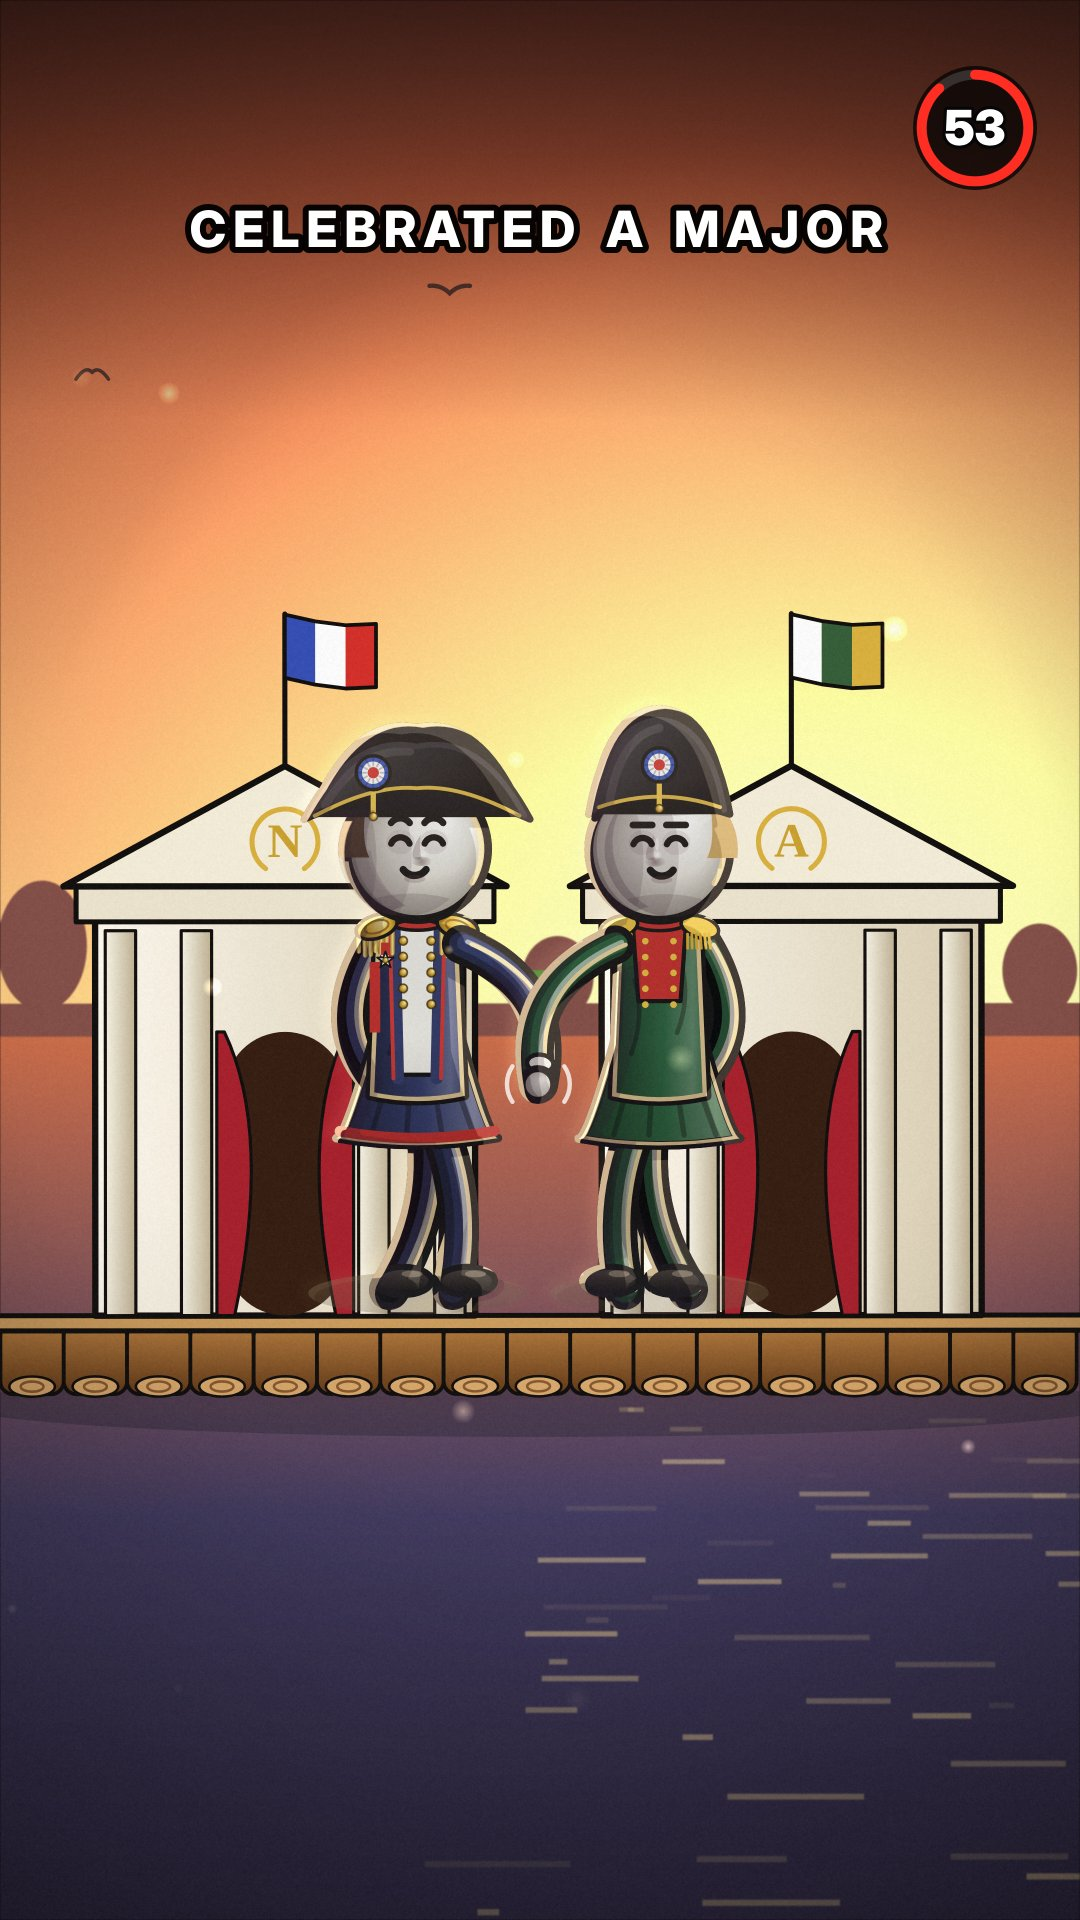
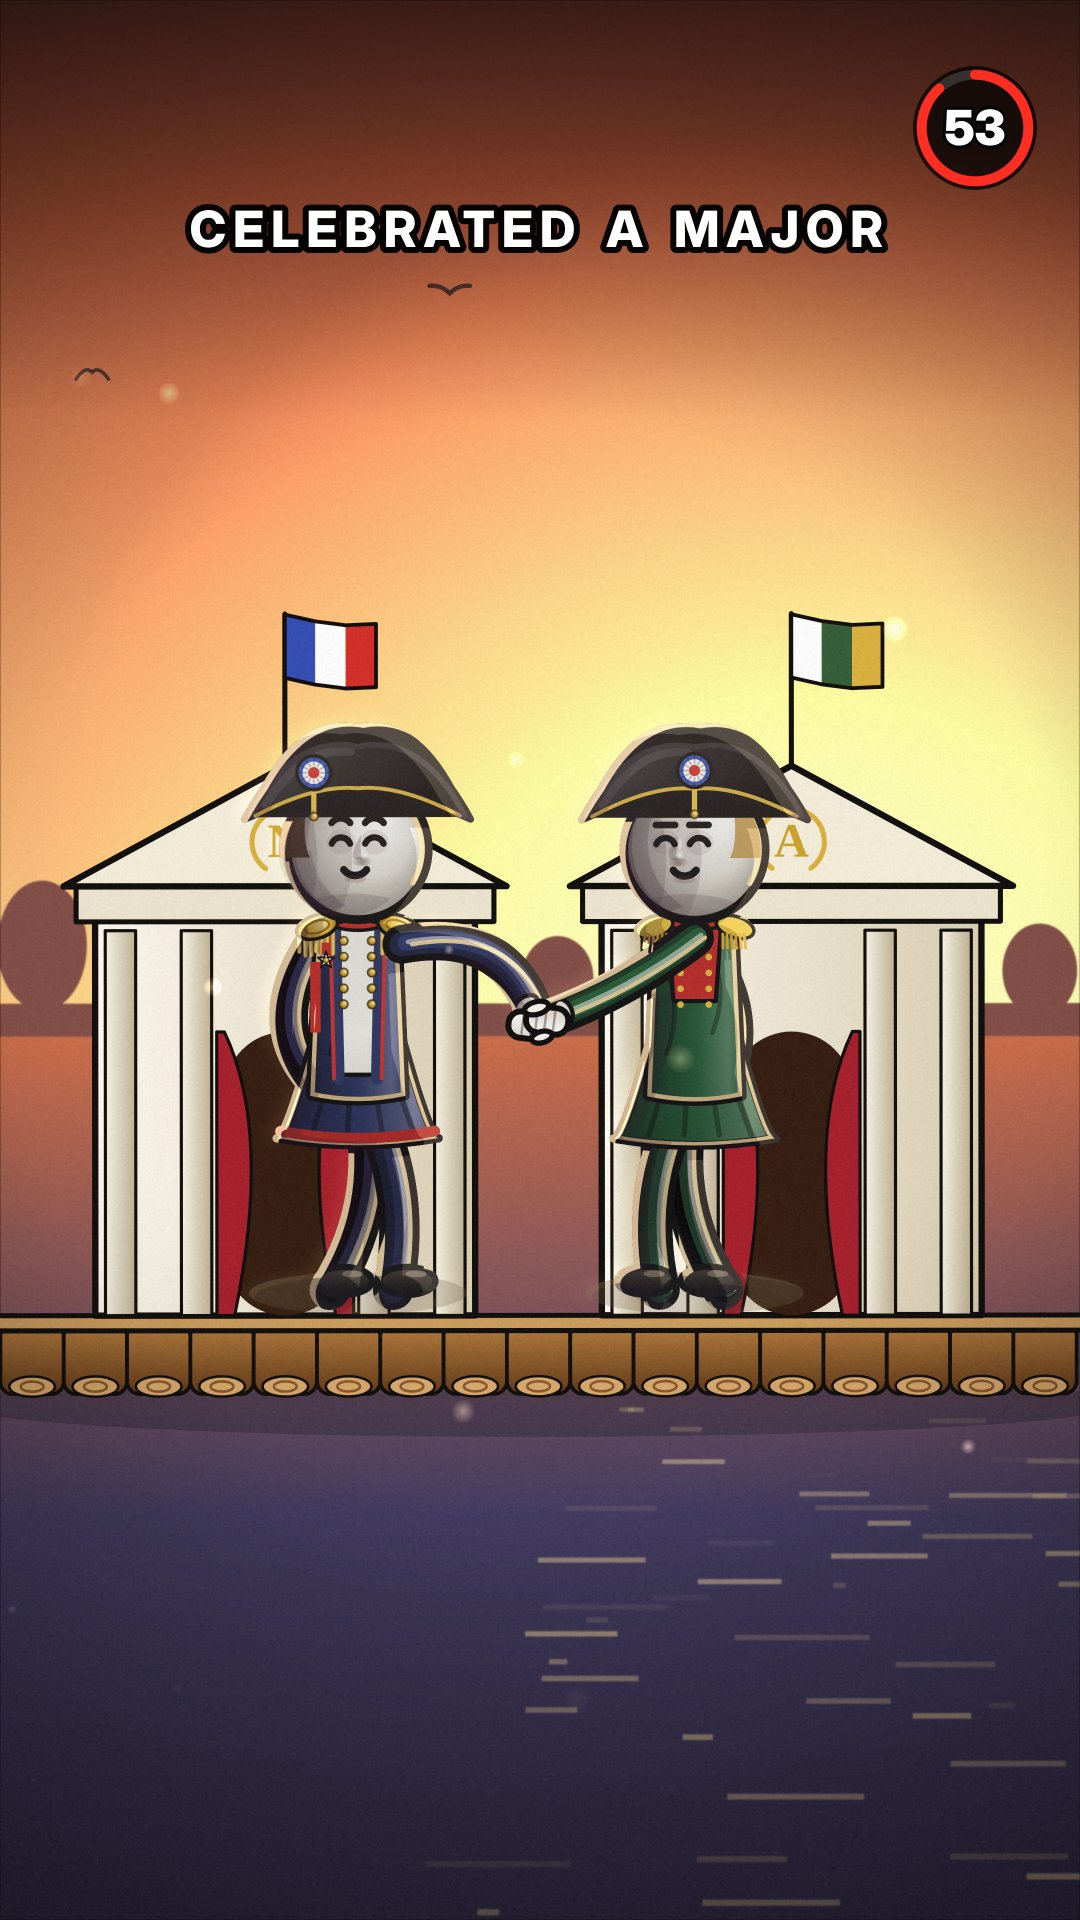
Rabbits: proper handshake with gap and gripping hands
Claude-Session: https://claude.ai/code/session_01WmZXnGWPQwk3MGbLdxyYXF

Changed region(s): [[0.2139, 0.3438, 0.7639, 0.6875]]

diff --git a/storybit/projects/rabbits/rb_shots2.js b/storybit/projects/rabbits/rb_shots2.js
@@ -4,12 +4,19 @@ const COLS5=['white','grey','spot','brown','white'];
 const handheld=(t,a=6)=>({x:Math.sin(t*1.7)*a+Math.sin(t*3.1)*a*0.4,y:Math.cos(t*1.3)*a*0.6});
 // 6 · Tilsit: the two emperors actually shake hands (hands meet and pump together)
 SH.tilsit=function(c,t){LIT('#ffe0a8','#2a3a4a');const z=pushZ(t,A(5),TW('chief')-0.1,1.0,1.1);river(c,t,{x:540,y:1080,z,mm:50},{pyr:0,palms:0,sunX:780,GY:1150,world:(c2,GY)=>{raft(c2,540,GY+260,1.15,t);
-  const pump=Math.sin(t*9)*5,hy=60+pump;
-  NAP({c:c2,x:430,y:GY+230,s:1.6,f:1,t,eyes:'happy',brow:'up',mouth:'smile',hf:[69,hy+25],hb:[-10,92],seed:1,look:[1,0]});
-  fig2(c2,{kind:'tsar',view:'front',x:650,y:GY+230,s:1.6,f:-1,t,eyes:'happy',brow:'flat',mouth:'smile',hf:[-69,hy+25],hb:[10,92],seed:2,look:[-1,0]});
-  const hx=540,hy2=GY+230-(TH2+TOR2)*1.6+(hy+25)*1.6;c2.save();c2.strokeStyle='rgba(255,255,255,0.8)';c2.lineWidth=4;c2.lineCap='round';for(const d of [-1,1]){c2.beginPath();c2.arc(hx,hy2,26+Math.abs(pump)*1.5,d>0?-0.6:Math.PI-0.6,d>0?0.6:Math.PI+0.6);c2.stroke();}c2.restore();}});
+  const pump=Math.sin(t*9)*4,hy=50+pump,S=1.6,xN=376,xT=682;
+  NAP({c:c2,x:xN,y:GY+230,s:S,f:1,t,eyes:'happy',brow:'up',mouth:'smile',hf:[(540-xN)/S,hy],hb:[-12,92],seed:1});
+  fig2(c2,{kind:'tsar',x:xT,y:GY+230,s:S,f:-1,t,eyes:'happy',brow:'flat',mouth:'smile',hf:[(540-xT)/S,hy],hb:[12,92],seed:2});
+  clasp(c2,540,GY+230-(TH2+TOR2)*S+hy*S,S);}});
   statTag(c,540,640,'TREATY OF TILSIT',GOLD_C,clamp((t-TW('diplomatic'))/0.3));vignette(c,0.4);};
 const TH2=116,TOR2=84;
+// two gloved hands gripping: right hand from the left person, right hand from the right person, thumbs over the top
+function clasp(c,x,y,s){c.save();c.lineJoin='round';c.strokeStyle=K2;c.lineWidth=3.4*s;
+  const hand=(dx,dy,rot,col)=>{c.save();c.translate(x+dx*s,y+dy*s);c.rotate(rot);const g=c.createLinearGradient(0,-8*s,0,8*s);g.addColorStop(0,'#ffffff');g.addColorStop(1,col);c.fillStyle=g;c.beginPath();c.roundRect(-12*s,-7.5*s,24*s,15*s,7*s);c.fill();c.stroke();
+    c.strokeStyle='rgba(0,0,0,0.35)';c.lineWidth=1.4*s;for(const k of [-4,1,6]){c.beginPath();c.moveTo(k*s,-6*s);c.lineTo(k*s,5*s);c.stroke();}c.restore();};
+  hand(-5,1.5,0.12,'#d8d4cc');hand(5,-1.5,0.12+Math.PI,'#cfcac2');
+  c.fillStyle='#f2f0ea';c.strokeStyle=K2;c.lineWidth=3*s;c.beginPath();c.ellipse(x-1*s,y-8.5*s,7*s,3.6*s,-0.25,0,TAU);c.fill();c.stroke();c.beginPath();c.ellipse(x+2*s,y+8*s,6*s,3.2*s,-0.25,0,TAU);c.fill();c.stroke();
+  c.restore();}
 // 3 · "...because of a thousand rabbits." they pour over the hill crest toward camera instead of popping in
 SH.reveal=function(c,t){LIT();const t0=A(2);const GYv=1300,z=pushZ(t,t0,B(2)+0.6,1.0,1.1);field(c,t,{x:540,y:1080,z,mm:35},{sky:'sun',troops:0,smoke:0,world:(c2,GY)=>{const P=PSP(GY,GY+900,2.4);
   const prog=i=>clamp((t-t0-hash(i*9.1)*1.3)/1.1);

diff --git a/storybit/projects/rabbits/rb_look.js b/storybit/projects/rabbits/rb_look.js
@@ -204,7 +204,7 @@ function raft(c,x,y,s,t){c.save();c.translate(x,y+Math.sin(t*1.5)*4*s);c.lineJoi
     c.strokeStyle=K2;c.lineWidth=4*s;seg(c,0,-440*s,0,-560*s);const wave=k=>Math.sin(t*6+k*0.8)*7*s;fl.forEach((col,i)=>{c.fillStyle=col;c.beginPath();c.moveTo(i*24*s,-558*s+wave(i));c.lineTo((i+1)*24*s,-558*s+wave(i+1));c.lineTo((i+1)*24*s,-508*s+wave(i+1));c.lineTo(i*24*s,-508*s+wave(i));c.closePath();c.fill();});
     c.lineWidth=3*s;c.beginPath();c.moveTo(0,-558*s+wave(0));for(let i=1;i<=3;i++)c.lineTo(i*24*s,-558*s+wave(i));for(let i=3;i>=0;i--)c.lineTo(i*24*s,-508*s+wave(i));c.closePath();c.stroke();
     c.restore();}
-  c.strokeStyle='#4a8a3a';c.lineWidth=7*s;c.beginPath();c.moveTo(-60*s,-300*s);c.quadraticCurveTo(0,-250*s,60*s,-300*s);c.stroke();
+  
   c.restore();}
 // ---------- 8. country cottage: thatched roof, timber frame, glowing windows, chimney smoke, fence, hutch ----------
 function cottage(c,x,y,s,t){c.save();c.translate(x,y);c.lineJoin='round';c.strokeStyle=K2;
